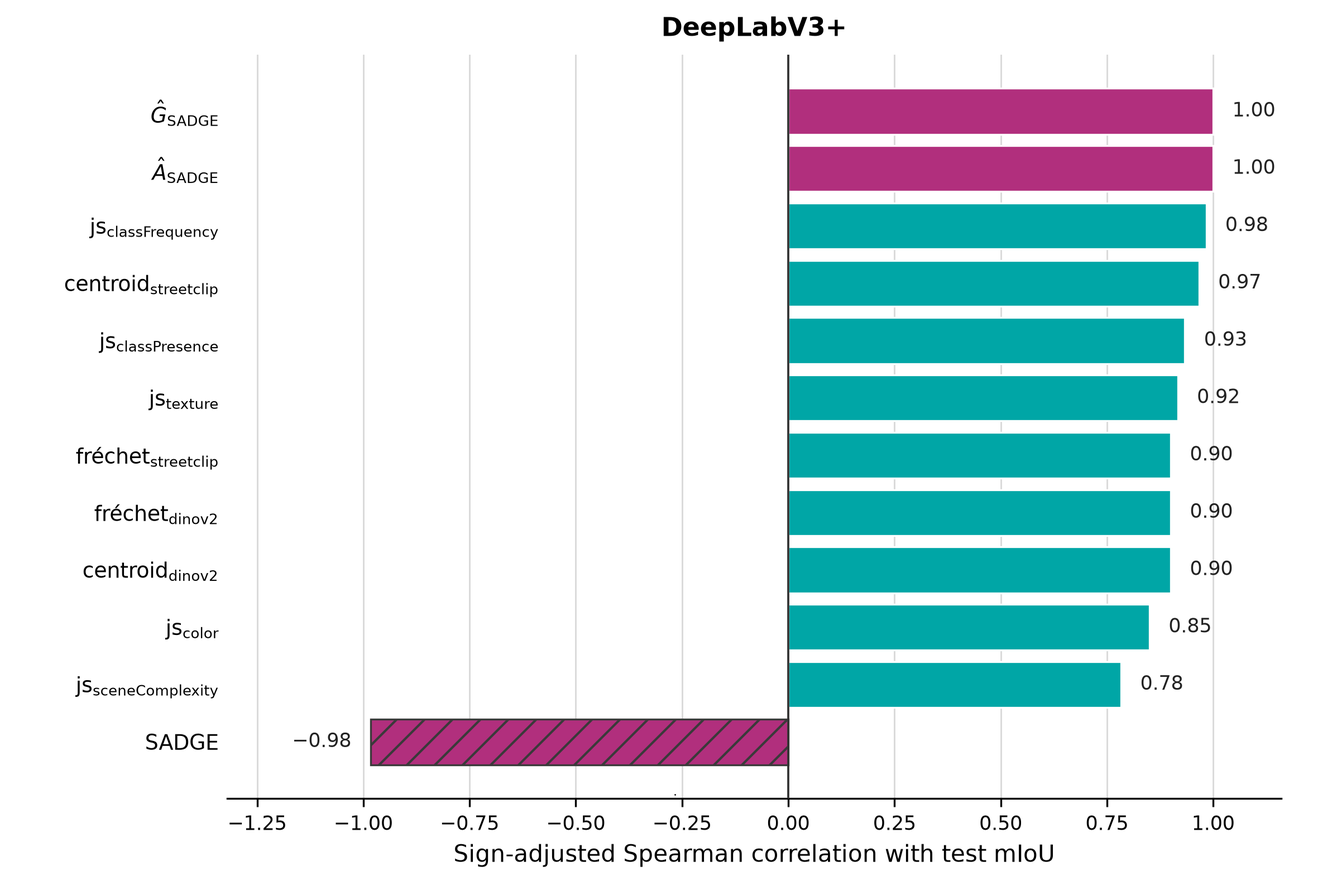
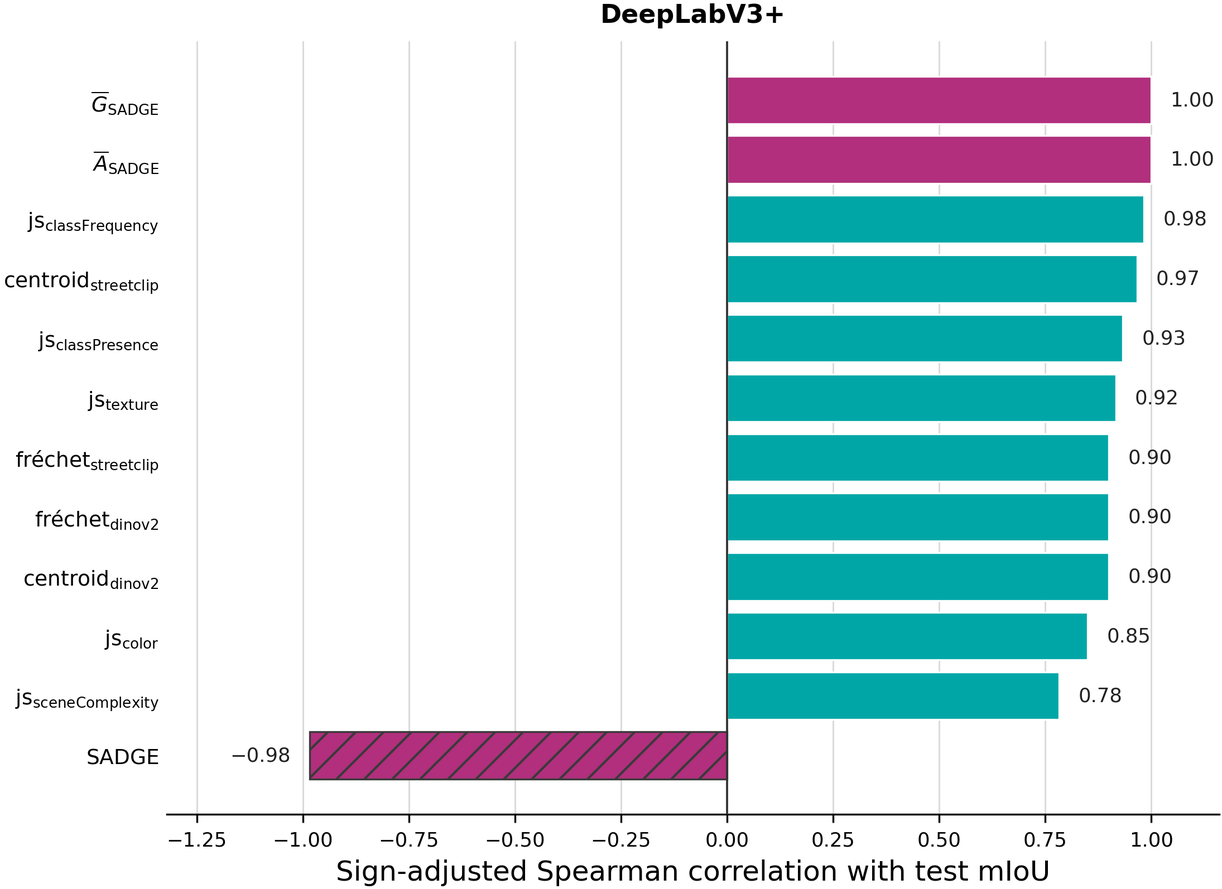
Revised Krish's Dataset section, Srishti's results section, added and revised Srishti's abstract, added title, added new plots (for 6 seeds, old ones were for 3 seeds only)

diff --git a/paper/code.tex b/paper/code.tex
@@ -20,7 +20,7 @@
     T\kern-.1667em\lower.7ex\hbox{E}\kern-.125emX}}
 \begin{document}
 
-\title{Conference Paper Title}
+\title{Shift Happens: Quantifying Domain Gap to Predict Hybrid Dataset Utility}
 
 \author{\IEEEauthorblockN{Silvie Opolka}
 \IEEEauthorblockA{\textit{Institute of Cognitive Science} \\
@@ -56,11 +56,11 @@ spandey@uni-osnabrueck.de}
 \maketitle
 
 \begin{abstract}
-The abstract goes here.
+Hybrid datasets that combine real and synthetic data can reduce data-collection costs and increase training diversity, but selecting an effective mixture usually requires training and evaluating a model for every candidate configuration. This study investigates whether distribution-shift quantification can predict the utility of hybrid datasets before downstream model training. We construct nine training configurations by mixing Cityscapes with either Synscapes or GTA-V at different synthetic fractions, and evaluate their utility for semantic segmentation on a held-out Cityscapes test set. Twelve metrics quantify covariate, label, or representation shift using image statistics, segmentation labels, or pretrained representations. We compare metric scores with test mean Intersection-over-Union for SegFormer-B2 and DeepLabV3+ models, trained with six random seeds per configuration, yielding 108 training runs. Shift quantification metrics generally exhibit the expected relationship with downstream performance, and the resulting metric rankings are broadly consistent across architectures. However, correlations across synthetic fractions are strongly confounded by the synthetic proportion itself. Matched-ratio comparisons, which hold the synthetic fraction constant, provide a stricter assessment of predictive utility and show that metrics that rank highly under ordinary correlation can fail to distinguish between synthetic sources. SADGE's appearance and geometry components, together with class-frequency shift, provide the most reliable predictions. Overall, the results support pre-training shift quantification as a promising tool for hybrid-dataset evaluation, while showing that its reliability depends on relevant shift types and appropriate metric calibration.
 \end{abstract}
 
 \begin{IEEEkeywords}
-IEEE, IEEEtran, journal, \LaTeX, paper, template.
+Shift quantification, hybrid datasets, dataset utility, dataset shift, domain gap, semantic segmentation
 \end{IEEEkeywords}
 
 \section{Introduction}
@@ -78,65 +78,29 @@ This study evaluates the proposed approach in the context of \textbf{daytime urb
 
 \subsection{Data preparation}
 \label{sec:datasetPreparation}
-%\textcolor{gray}{Bla Bla: Describe the datasets (Cityscapes, Synscapes, GTA-V)} 
-
-% Revision Notes and Clarification questions
-
-% Does the Synscapes dataset contain fine or coarse annotations? Can't remember at this moment. Need sleep lol.
-
-% Why did we specifically choose 2000 samples for all the datasets? Do we need to link the relevant literature for this?
-
-% Might need to include the LANCZOS and NEAREST Sampling justification literature
-
 
 We chose three different image datasets with pixel-level annotations: Cityscapes \cite{cityscapes}, Synscapes \cite{synscapes}, and GTA-V \cite{GTA_V}. The synthetic datasets Synscapes and GTA-V have Cityscapes-compliant annotations at pixel-level. 
 
-The \textbf{Cityscapes dataset} \cite{cityscapes} encompasses real-world street scene data from stereo video sequences, which were recorded in 50 Central European cities. It comprises 5,000 frames with high quality, pixel-level annotations and 20,000 frames with coarse annotations. To minimize the influence of annotation quality on both model training and label-based shift quantification, we only consider fine annotated data samples in this study. Cityscapes provides an official split of the fine annotated data into training (2,975 samples), validation (500 samples), and test (1,525 samples) sets. However, segmentation masks for the test set are kept private. This makes the test data unusable for our study, as our label-based shift quantification metrics require segmentation masks. Hence, we curated our own test set from the training data, comprising 975 data samples from five different cities. The city-based split was maintained to prevent data leakage.
-
+The \textbf{Cityscapes dataset} \cite{cityscapes} encompasses real-world street scene data from stereo video sequences, which were recorded in 50 Central European cities. It comprises 5,000 frames with high-quality, pixel-level annotations and 20,000 frames with coarse annotations. To minimize the influence of annotation quality on both model training and label-based shift quantification, we only consider fine-annotated data samples in this study. Cityscapes provides an official split of the fine-annotated data into training (2,975 samples), validation (500 samples), and test (1,525 samples) sets. However, segmentation masks for the test set are kept private. This makes the test data unusable for our study, as our label-based shift quantification metrics require segmentation masks. Hence, we curated our own test set from the training data, comprising 975 data samples from five different cities. The city-based split was maintained to prevent data leakage.
 
 The \textbf{Synscapes dataset} \cite{synscapes} comprises 25,000 synthetic images resembling real-world street scenes, which were generated procedurally using a physics-based rendering pipeline. It was designed to closely resemble the Cityscapes dataset, but exhibits notable limitations including class over-representation (see Appendix~\ref{sec:datasetAnalysis}) and restricted visual diversity caused by repeatedly reusing the same limited set of (in)animate objects. We selected the first 2,000 images as our training data.
- 
 
-The \textbf{GTA-V dataset} \cite{GTA_V} comprises 24,966 synthetic images, which were captured in the fictional city Los Santos of the videogame \textit{Grand Theft Auto V}. Los Santos is inspired by the American city Los Angeles in Southern California. When compared to the European setting of Cityscapes, GTA-V data exhibits pronounced visual and semantic differences (see Appendix~\ref{sec:datasetAnalysis}). Our 2,000 sample training set is drawn from the first 2,526 images, omitting 526 samples that fall outside our study's scope due to poor natural lighting or their depiction of rural rather than urban street scenes.
+The \textbf{GTA-V dataset} \cite{GTA_V} comprises 24,966 synthetic images, which were captured in the fictional city Los Santos of the videogame \textit{Grand Theft Auto V}. Los Santos is inspired by the American city Los Angeles in Southern California. When compared to the European setting of Cityscapes, GTA-V data exhibits pronounced visual and semantic differences (see Appendix~\ref{sec:datasetAnalysis}). Our 2,000-sample training set is drawn from the first 2,526 images, omitting 526 samples that fall outside our study's scope due to poor natural lighting or their depiction of rural rather than urban street scenes.
 
+Image resolutions differ across the three datasets: The Cityscapes samples are of the dimension 2048x1024; the Synscapes samples are of the dimension 1440x720, and the GTA-V samples are of the dimension 1914x1052. To eliminate the influence of resolution on both shift quantification and model training, we resized all samples uniformly to 1440x720. This resolution was chosen based on Synscapes' strict data policy, which prohibits any modification of its data. Cityscapes images and segmentation masks were downscaled directly to a resolution of 1440x720. GTA-V images and segmentation masks were first downscaled to preserve their original aspect ratio and then center-cropped to 1440x720. Image resizing used the LANCZOS technique, which preserves the most information among common sampling methods \cite{kuswantoriautomatic}. For the segmentation masks, we applied NEAREST downscaling technique, which preserves the most amount of class labels among common sampling techniques \cite{rukundo2026beyond}.
 
-For the purpose of model training and shift quantification measurement, we decided to choose different mixtures of artificial and real samples extracted from the three aforementioned datasets. In order to reach a point where we could predict model downstream performance, we need to have different training and testing divisions of the three aforementioned datasets and then, we need to train our model(s) on various hybrid data configurations, resulting from the mixture of different amounts of real and artificial samples taken from the original collection of images present in these datasets. Before diving into the intricacies of the different data mixtures, it was decided that all the different dataset combinations will have 2000 samples in total because we only have 2000 finely-annotated training samples for the Cityscapes dataset. 
-
-After this, it was decided to fully eliminate any potential sources of bias based on the varying resolutions of the samples belonging to these three different datasets. The Cityscapes samples are of the dimension \textbf{2048x1024}; the Synscapes samples are of the dimension \textbf{1440x720} and the Gta-V samples are of the dimension \textbf{1914x1052}. In addition to the varying resolutions of the image samples in the different datasets, the Synscapes dataset usage policy does not allow any sort of data modification for the purpose of usage of said data in any sort of project. In order to not introduce resolution-related biases and artifacts inside the model, all of our CityScapes image samples were downscaled to a resolution of \textbf{1440x720}, the GTA-V samples were first downscaled to the resolution of \textbf{1440x720} and then center-cropped to avoid cropping-related information loss. The Synscapes samples were kept the same.
-
-
-For changing the resolution of the image samples, the LANCZOS upscaling and downscaling technique was used because it preserves the most amount of information \cite{kuswantoriautomatic}. For resizing the annotated segmentation masks, some experimentation and literature review was done and it was found that the NEAREST upscaling and downscaling technique preserved the most amount of class labels amongst all the sampling techniques present \cite{rukundo2026beyond}. 
-
-Finally, after all the downscaling and center cropping was done to all the relevant data samples belonging to the different datasets, 10 different dataset configurations were used to train and test the models in order to quantify data distribution shifts thereafter. Out of these 10 configurations, 6 different hybrid data configurations were created based on different amounts of real and synthetic samples present in these configurations. The remaining 4 configurations contained either real or synthetic samples based on the datasets they belonged to. For the sake of clarity, the 10 different dataset configurations are listed below in bulleted points: 
+A total of nine different training datasets were created, each comprising 2,000 samples. The number of samples was kept constant to eliminate the influence of dataset size on both shift quantification and model training. Besides the three pure training datasets (\textbf{Cityscapes100}, \textbf{Synscapes100}, \textbf{GTAV100}), six additional hybrid training dataset configurations were sampled randomly from the pure datasets:
 
 \begin{itemize}
-
-\item \textbf{TRAINING DATA} encompassing 500 samples extracted from the Cityscapes dataset and 1500 samples extracted from the Synscapes dataset
-
-\item \textbf{TRAINING DATA} encompassing 1000 samples extracted from the Cityscapes dataset and 1000 samples extracted from the Synscapes dataset
-
-\item \textbf{TRAINING DATA} encompassing 1500 samples extracted from the Cityscapes dataset and 500 samples extracted from the Synscapes dataset 
-
-\item \textbf{TRAINING DATA} encompassing 2000 samples extracted from the Cityscapes dataset
-
-\item \textbf{TRAINING DATA} encompassing 2000 samples extracted from the Synscapes dataset
-
-\item \textbf{TRAINING DATA} encompassing 2000 samples extracted from the GTA-V dataset
-
-\item \textbf{TRAINING DATA} encompassing 500 samples extracted from the Cityscapes dataset and 1500 samples extracted from the GTA-V dataset
-
-\item \textbf{TRAINING DATA} encompassing 1000 samples extracted from the Citycapes dataset and 1000 samples extracted from the GTA-V dataset
-
-\item \textbf{TRAINING DATA} encompassing 1500 samples extracted from the Cityscapes dataset and 500 samples extracted from the GTA-V dataset
-
-\item \textbf{TESTING DATA} encompassing 2000 samples extracted from the Cityscaps dataset
-
+\item \textbf{Synscapes75}, encompassing 500 samples extracted from the Cityscapes dataset and 1500 samples extracted from the Synscapes dataset
+\item \textbf{Synscapes50}, encompassing 1000 samples extracted from the Cityscapes dataset and 1000 samples extracted from the Synscapes dataset
+\item \textbf{Synscapes25}, encompassing 1500 samples extracted from the Cityscapes dataset and 500 samples extracted from the Synscapes dataset 
+\item \textbf{GTAV75}, encompassing 500 samples extracted from the Cityscapes dataset and 1500 samples extracted from the GTA-V dataset
+\item \textbf{GTAV50}, encompassing 1000 samples extracted from the Cityscapes dataset and 1000 samples extracted from the GTA-V dataset
+\item \textbf{GTAV25}, encompassing 1500 samples extracted from the Cityscapes dataset and 500 samples extracted from the GTA-V dataset
 \end{itemize}
 
-Finally, since all of the 34 image classes belonging to the finely-annotated pixel-level segmentation masks weren't always relevant for segmenting all the objects belonging to the different frames, it was decided to move forward with 19 of the most relevant image classes for segmenting objects in the frames.
-
-
-%\textcolor{gray}{Bla Bla: Describe the preparation (number of samples selected, how samples were selected, resizing to uniform resolution, construction of the 9 hybrid train datasets + val + test datasets and the reasoning behind it, certain class indices are ignored - 19 instead of 34 classes)} 
+Finally, similar to \cite{cityscapes}, only 19 of the 34 different Cityscapes classes were considered. 
 
 \subsection{Shift quantification}
 A distribution shift occurs when two data distributions differ. In machine learning (ML), this typically refers to the shift between the distribution a model is trained on (training distribution) and the distribution it will be applied to (inference distribution, approximated by the test dataset). Hybrid datasets are often motivated by the goal of reducing this distribution shift: Adding synthetic data to real data can enrich the training distribution in a controlled manner, improving coverage and diversity, and supporting generalization to shifted inference conditions. Conversely, adding real data to synthetic data can help anchor the model in real-world statistics, reducing the reality gap and mitigating reliance on unrealistic or harmful artifacts. 
@@ -146,7 +110,7 @@ Beyond this general notion, a distribution shift can be decomposed into several 
 \label{eq:bayes_shift}
 P(Y \mid F(x)) = \frac{P(F(x) \mid Y) \cdot P(Y)}{P(F(x))}.
 \end{equation}
-The Bayes decomposition exposes the distributions that may differ between datasets. Based on the affected distribution, we differentiate between five shift types, of which this study focuses on three: covariate shift, label shift, and representation shift.\footnote{Additional shift types include class-conditional representation shift, which affects the input representation for a specific class $P(F(x)|Y)$, and concept shift, which affects the labeling function $P(Y|F(x))$ or $P(Y|X)$. Class-conditional representation shift is excluded because this study quantifies the shift at the dataset level rather than per class. Concept shift is excluded because all datasets share the same semantic label definitions.} Inspired by \cite{dale2024}, we chose our shift quantification metrics considering three criteria: Each metric must be easy to calculate, provide information about the source of the gap, and react to changes in data distribution as hybrid training configurations are adjusted. Their fourth criteria, correlation with downstream model performance, will be addressed in this study. Based on the information used for quantification, we group the selected shift quantification metrics into three categories, each capturing a different aspect of the shift:
+The Bayes decomposition exposes the distributions that may differ between datasets. Based on the affected distribution, we differentiate between five shift types, of which this study focuses on three: covariate shift, label shift, and representation shift.\footnote{Additional shift types include class-conditional representation shift, which affects the input representation for a specific class $P(F(x)|Y)$, and concept shift, which affects the labeling function $P(Y|F(x))$ or $P(Y|X)$. Class-conditional representation shift is excluded because this study quantifies the shift at the dataset level rather than per class. Concept shift is excluded because all datasets share the same semantic label definitions.} Inspired by \cite{dale2024}, we chose our shift quantification metrics considering two criteria: Each metric must be easy to calculate and provide information about the source of the gap. The remaining two criteria, correlation with downstream model performance, and reaction to changes in data distribution as hybrid training configurations are adjusted, will be addressed in this study. Based on the information used for quantification, we group the selected shift quantification metrics into three categories, each capturing a different aspect of the shift:
 
 \textbf{Image-based metrics} quantify the covariate shift, that is, differences in the input distribution $P(X)$ that arise from changes in visual properties such as color and texture. These metrics operate on the raw images. This study considers two metrics that focus on a shift in color ($\text{js}_{\text{color}}$) and texture ($\text{js}_{\text{texture}}$) respectively. Covariate shift was quantified using Jensen-Shannon distance \eqref{eq:js} between the normalized mean histograms $p_{\text{train}}$, $p_{\text{test}}$. Per-image color histograms were computed in HSV space using density-based histogram counts, with 32 hue bins (0-180), 16 saturation bins (0-256), and 16 brightness bins (0-256). Per-image texture histograms were computed using multiscale Local Binary Patterns (LBP) at two scales ($P=8$, $R=1$) and ($P=16$, $R=2$).
 
@@ -240,157 +204,84 @@ Our matched-ratio comparison avoids the effect entirely by holding the synthetic
 
 \textbf{Multiple comparisons.} Correlating twelve metrics against the same downstream scores raises the chance that at least one appears significant purely by accident. Correlation $p$-values are therefore reported alongside values adjusted by the Holm step-down procedure \cite{holm1979}, applied within each family of twelve metrics, that is separately for each architecture.
 
-% \section{Results}
-% \textcolor{gray}{PARAGRAPH (1)}
-
-% \begin{itemize}
-%     \item \textcolor{gray}{Synscapes and GTA-V differ in separate ways from Cityscapes (see Appendix~\ref{sec:datasetAnalysis}).}
-%     \item \textcolor{gray}{Model performance is visibly affected by this shift (see Figure~\ref{fig:shiftModelPerformance}). The lower the ratio of in-domain/real/Cityscapes data, the lower downstream model performance.}
-%     \item \textcolor{gray}{Models trained with GTA-V as a synthetic data source perform generally worse than models trained on Synscapes.}
-%     \item \textcolor{gray}{Variance between seeds rises at higher synthetic fractions for both models.}
-%     \item \textcolor{gray}{Segformer architecture generally performs better than DeepLabV3+.}
-% \end{itemize}
-
-% \begin{figure}[htbp]
-%     \vspace{-0.5em}
-%     \centering
-%     \includegraphics[width=\columnwidth, keepaspectratio]{images/shiftModelPerformance.png}
-%     \caption{Points show means across three training seeds. Shaded regions indicate 95\% confidence intervals computed using the unbiased sample variance.}
-%     \label{fig:shiftModelPerformance}
-% \end{figure}
-
-% \textcolor{gray}{PARAGRAPH (2) - reference Figures \ref{fig:correlation1} and \ref{fig:correlation2}}
-
-% \begin{itemize}
-%     \item \textcolor{gray}{shift quantification metrics produce shift scores that differ in scale}
-%     \item \textcolor{gray}{observe negative correlation for all distance-based metrics; observe positive correlation for SADGE's two similarity-based individual components; observe negative correlation for the combined SADGE score despite being similarity-based}
-%     \item \textcolor{gray}{correlation (and its p-value / statistical significance) is generally higher for DeepLabV3+ than Segformer}
-%     \item \textcolor{gray}{statistical significance: all are $p<0.05$}
-%     \item \textcolor{gray}{for a single training seed, ranking according to correlation stays similar between the two model architectures, just $\text{js}_{\text{sceneComplexity}}$ and $\text{js}_{\text{color}}$ are swapped}
-% \end{itemize}
-
-% \begin{figure*}[!htbp]
-%     \centering
-%     \includegraphics[width=0.48\textwidth]{images/seed42_color_js_miou.png}
-%     \includegraphics[width=0.48\textwidth]{images/seed42_texture_js_miou.png}
-%     \includegraphics[width=0.48\textwidth]{images/seed42_class_frequency_js_miou.png}
-%     \includegraphics[width=0.48\textwidth]{images/seed42_class_presence_js_miou.png}
-%     \includegraphics[width=0.48\textwidth]{images/seed42_scene_complexity_js_miou.png}
-%     \includegraphics[width=0.48\textwidth]{images/seed42_sadge_miou.png}
-%     \includegraphics[width=0.48\textwidth]{images/seed42_sadge_appearance_miou.png}
-%     \includegraphics[width=0.48\textwidth]{images/seed42_sadge_geometry_miou.png}
-    
-%     \caption{caption}
-%     \label{fig:correlation1}
-% \end{figure*}
-
-% \begin{figure*}[!htbp]
-%     \centering
-%     \includegraphics[width=0.48\textwidth]{images/seed42_centroid_dinov2_miou.png}
-%     \includegraphics[width=0.48\textwidth]{images/seed42_centroid_streetclip_miou.png}
-%     \includegraphics[width=0.48\textwidth]{images/seed42_frechet_dinov2_miou.png}
-%     \includegraphics[width=0.48\textwidth]{images/seed42_frechet_streetclip_miou.png}
-    
-%     \caption{continued from Figure X}
-%     \label{fig:correlation2}
-% \end{figure*}
-
-% \textcolor{gray}{PARAGRAPH (3) - reference Figure \ref{fig:ranking}}
-
-% \begin{itemize}
-%     \item \textcolor{gray}{the overall ranking stays similar when considering the mean downstream performance (across seeds), now is even identical between the two model architectures}
-%     \item \textcolor{gray}{SADGE remains the best metric in our study as well; the individual geometry and appearance SADGE components alone already work well by themselves}
-%     \item \textcolor{gray}{From our metrics, $\text{js}_{\text{classFrequency}}$ shows highest predictive power}
-%     \item \textcolor{gray}{out of our representation-based metrics, $\text{centroid}_{\text{streetCLIP}}$ works best}
-%     \item \textcolor{gray}{$\text{js}_{\text{color}}$ and $\text{js}_{\text{sceneComplexity}}$ show lowest predictive power}
-% \end{itemize}
-
-% \begin{figure}[!htbp]
-%     \centering
-%     \includegraphics[width=\linewidth]{images/rankingSegformer.png}
-%     \vspace{1.0em}
-%     \includegraphics[width=\linewidth]{images/rankingDeeplabv3plus.png}
-%     \caption{Caption}
-%     \label{fig:ranking}
-% \end{figure}
-
-% \textcolor{gray}{PARAGRAPH (4) - reference Figure~\ref{fig:matchedRatio}}
-
-% \begin{itemize}
-%     \item \textcolor{gray}{matched-ratio comparisons (see Figure~\ref{fig:matchedRatio}) reveal a key difference between model architectures: tie for SegFormer architecture, across metrics, for moderate synthetic ratios. For the DeepLabV+, all metrics are able to draw a clear differentiation. } 
-%     \item \textcolor{gray}{$\text{SADGE}$, $\text{js}_{\text{classPresence}}$ and $\text{js}_{\text{sceneComplexity}}$ are unable to rank hybrid dataset utility meaningfully when keeping the synthetic fraction fixed}
-% \end{itemize}
-
-% \begin{figure}[!htbp]
-%     \centering
-%     \includegraphics[width=\linewidth]{images/matchedRatioSegformer.png}
-%     \vspace{1.0em}
-%     \includegraphics[width=\linewidth]{images/matchedRatioDeepLab.png}
-%     \caption{Caption}
-%     \label{fig:matchedRatio}
-% \end{figure}
-
 \section{Results}
-Overall, the results are consistent across the evaluated settings: hybrid datasets with a larger synthetic share tend to perform worse, the strongest degradation appears in the most synthetic-heavy mixtures, and the gap is larger for GTA-V than for Synscapes. The same pattern is reflected in the shift metrics, where the strongest predictors recover the expected negative relationship between dataset shift and downstream performance, while the matched-ratio comparison provides the clearest evidence for ranking candidate sources under a fixed data budget.
 
 \subsection{Downstream performance by synthetic fraction}
-Figure~\ref{fig:shiftModelPerformance} summarizes the mean test mIoU across the nine hybrid training settings. The pattern is consistent across architectures: increasing the synthetic fraction reduces performance, and the decline is steeper for GTA-V than for Synscapes. SegFormer remains the better model on average, but the gap between the two synthetic sources is relatively small in the mid-range ratios and becomes clearer only at higher synthetic fractions.
+Synscapes and GTA-V differ in separate ways from Cityscapes (see Appendix~\ref{sec:datasetAnalysis}). Model performance is visibly affected by this shift, as increasing the synthetic fraction consistently reduces the mean test mIoU (see Figure~\ref{fig:shiftModelPerformance}). Within the same model architecture, training with GTA-V as a synthetic data source results in consistently lower performance compared to using Synscapes. The performance gap between the two synthetic sources becomes more prominent as their fraction increases. The SegFormer architecture performs superior to DeepLabV3+.
+
+Those findings show that the synthetic proportion is a strong driver of downstream performance, while the source of the synthetic data controls the severity of the drop. The trend is consistent across both architectures, indicating that the ordering of the dataset mixtures is model-independent.
 
 \begin{figure}[!htbp]
     \centering
-    \includegraphics[width=\columnwidth, trim=0 40 0 10, clip]{../results/figures/figure4/figure4_miou_ci95.png}
-    \caption{Mean test mIoU as a function of the synthetic fraction in the training mixture. Points show the mean across six training seeds and shaded regions show 95\% confidence intervals. Results are reported separately for Synscapes-containing and GTA-containing mixtures, for both model architectures.}
+    \includegraphics[width=\columnwidth, keepaspectratio]{images/shiftModelPerformance.png}
+    \caption{Mean test mIoU as a function of the synthetic fraction in the training mixture. Points show the mean across six training seeds and shaded regions show 95\% confidence intervals.}
     \label{fig:shiftModelPerformance}
 \end{figure}
 
-Figure~\ref{fig:shiftModelPerformance} shows that the synthetic proportion is a strong driver of downstream performance, while the source of the synthetic data controls the severity of the drop. The trend is consistent across both architectures, indicating that the ordering of the dataset mixtures is robust before any individual shift metric is considered.
-
-\subsection{Shift-performance relationships}
-The metric plots indicate that the relationship between shift score and test mIoU is mostly monotonic, but not equally strong across all metrics. Distance-based metrics tend to move in the expected direction: larger shift corresponds to lower mIoU. The strongest negative correlations are obtained by the class-frequency and representation-based distances, while the SADGE similarity scores move in the opposite direction as expected.
-
-\begin{figure}[!htbp]
-    \centering
-    \includegraphics[width=\columnwidth, trim=0 40 0 10, clip]{../results/figures/figure1/figure1_seed42_class_frequency_js_miou.png}
-    \caption{Example scatter plot of the class-frequency Jensen-Shannon distance against test mIoU. Marker shape denotes the model architecture and color denotes the synthetic source. The reported Spearman correlation shows the expected negative relationship between shift and downstream performance.}
-    \label{fig:shiftmetric_example}
-\end{figure}
-
-Figure~\ref{fig:shiftmetric_example} illustrates the central trend in the metric analysis: as the synthetic ratio increases, the class-frequency shift rises and the downstream mIoU decreases. The same qualitative pattern holds across the other distance-based metrics, although the strength of the relation varies between metrics and between architectures.
+\subsection{Correlation analysis}
+Since the shift quantification metrics produce shift scores on different scales, we assess their relationships using Spearman's correlation analysis (Figures~\ref{fig:correlation1} and~\ref{fig:correlation2}). Almost all metrics yield the expected correlation direction, though the strength of these correlations varies across metrics and architectures. All distance-based metrics correlate negatively, while both similarity-based SADGE components correlate positively, as expected. The fused SADGE score is the sole exception: Despite being similarity-based, it exhibits a negative correlation. Correlations are generally stronger for DeepLabV3+ than for SegFormer. All reported results are statistically significant ($p<0.05$).
 
 \subsection{Metric ranking}
-Figure~\ref{fig:ranking} summarizes the sign-adjusted correlations across all twelve metrics. The ordering is stable across architectures, with SADGE and the class-frequency distance among the strongest predictors. The appearance and geometry components of SADGE remain competitive when considered separately, whereas the weakest metrics are mainly those based on color and scene complexity.
+We rank the twelve metrics according to their sign-adjusted correlations with mean test mIoU (averaged across six training seeds; see Figure~\ref{fig:ranking}). The ranking is stable across model architectures, with $\bar{A}_{\text{SADGE}}$, $\bar{G}_{\text{SADGE}}$, and $\text{js}_{\text{classFrequency}}$ emerging as the strongest predictors. Among the representation-based metrics, $\text{centroid}_{\text{streetCLIP}}$ performs best. $\text{js}_{\text{color}}$ and $\text{js}_{\text{sceneComplexity}}$ rank lowest in predictive power.
 
 \begin{figure}[!htbp]
     \centering
-    \includegraphics[width=\columnwidth, trim=0 40 0 10, clip]{../results/figures/figure2/figure2_combined_miou_standard.png}
-    \caption{Sign-adjusted Spearman correlation of each metric with test mIoU. Distances are scored positively when they correlate negatively with mIoU; similarities are scored positively when they correlate positively with mIoU. Higher values indicate stronger predictive power.}
+    \includegraphics[width=\linewidth]{images/rankingSegformer.png}
+    \par\vspace{1.0em}\par
+    \includegraphics[width=\linewidth]{images/rankingDeeplabv3plus.png}
+    \caption{Metric ranking according to sign-adjusted Spearman's correlation with mean test mIoU. Higher values indicate stronger predictive power.}
     \label{fig:ranking}
 \end{figure}
 
-Figure~\ref{fig:ranking} makes the difference across metric families explicit: some shift types are more informative for predicting hybrid-dataset utility than others. The strongest predictors are not simply the ones with the largest raw shift values, but the ones that best reflect the mismatch that harms semantic segmentation performance.
-
 \subsection{Matched-ratio comparison}
-The matched-ratio comparison removes the effect of the synthetic proportion itself. It therefore provides a stricter test of a metric's usefulness. When the synthetic fraction is fixed, the difference between the two synthetic sources becomes clearer: DeepLabV3+ separates the sources more reliably at the same ratio, while SegFormer shows smaller and often non-significant differences at intermediate ratios.
+The matched-ratio comparison (Figure~\ref{fig:matchedRatio}) shows that once the effect of the synthetic proportion itself is removed,   $\text{js}_\text{classPresence}$ and $\text{js}_{\text{sceneComplexity}}$ fail to rank hybrid dataset utility meaningfully. Comparisons could not be conducted at low synthetic fractions for either architecture, nor at moderate synthetic fractions for SegFormer.
 
 \begin{figure}[!htbp]
     \centering
-    \includegraphics[width=\columnwidth, trim=0 40 0 10, clip]{../results/figures/figure3/figure3_combined_miou_standard.png}
+    \includegraphics[width=\linewidth]{images/matchedRatioSegformer.jpg}
+    \par\vspace{0.3em}\par
+    \includegraphics[width=\linewidth]{images/matchedRatioDeepLab.jpg}
     \caption{Matched-ratio comparison for the two synthetic sources at fixed synthetic fractions. Green cells indicate that the metric correctly prefers the better-performing source, red cells indicate the opposite, and gray cells indicate a tie that was not scored.}
     \label{fig:matchedRatio}
 \end{figure}
 
-Figure~\ref{fig:matchedRatio} is the most relevant comparison for dataset selection, because the question is not whether a metric tracks the overall synthetic share, but whether it can rank two candidate sources fairly under a fixed data budget. Taken together, these results show that pre-training shift quantification can predict the utility of hybrid datasets, but the reliability depends on the metric and on the evaluation protocol.
+
+\begin{figure*}[!htbp]
+    \centering
+    \includegraphics[width=0.48\textwidth]{images/seed42_color_js_miou.jpg}
+    \includegraphics[width=0.48\textwidth]{images/seed42_texture_js_miou.jpg}
+    \includegraphics[width=0.48\textwidth]{images/seed42_class_frequency_js_miou.jpg}
+    \includegraphics[width=0.48\textwidth]{images/seed42_class_presence_js_miou.jpg}
+    \includegraphics[width=0.48\textwidth]{images/seed42_scene_complexity_js_miou.jpg}
+    \includegraphics[width=0.48\textwidth]{images/seed42_sadge_miou.jpg}
+    \includegraphics[width=0.48\textwidth]{images/seed42_sadge_appearance_miou.jpg}
+    \includegraphics[width=0.48\textwidth]{images/seed42_sadge_geometry_miou.jpg}
+    
+    \caption{Spearman's correlation between quantified shift and downstream model performance. Marker shape denotes the model architecture (SegFormer: square, DeepLabV3+: circle). Color denotes the synthetic source (100\% real: black; Synscapes-containing: blue; GTA-V-containing: orange).}
+    \label{fig:correlation1}
+\end{figure*}
+
+\begin{figure*}[!htbp]
+    \centering
+    \includegraphics[width=0.48\textwidth]{images/seed42_centroid_dinov2_miou.jpg}
+    \includegraphics[width=0.48\textwidth]{images/seed42_centroid_streetclip_miou.jpg}
+    \includegraphics[width=0.48\textwidth]{images/seed42_frechet_dinov2_miou.jpg}
+    \includegraphics[width=0.48\textwidth]{images/seed42_frechet_streetclip_miou.jpg}
+    
+    \caption{Spearman's correlation between quantified shift and downstream model performance; continued from Figure~\ref{fig:correlation1}.}
+    \label{fig:correlation2}
+\end{figure*}
 
 \section{Discussion}
 In this study, we applied twelve shift quantification metrics to nine hybrid dataset configurations for daytime urban street scene segmentation, and measured correlation with downstream performance across two model architectures with six random seeds each. We can draw four main conclusions from our findings:
 
 First, both shift quantification and downstream model performance confirm a measurable domain gap between synthetic and real data. However, not all shift quantification metrics succeed in ranking hybrid dataset utility meaningfully. Both $\text{js}_{\text{classPresence}}$ and $\text{js}_{\text{sceneComplexity}}$ quantify a shift type that is more prominent in Synscapes than GTA-V (Appendix~\ref{sec:datasetAnalysis}), while downstream performance is affected more by GTA-V than Synscapes (Figure~\ref{fig:shiftModelPerformance}). This shows that predictive power does not simply follow from detecting whichever shift is most prominent, but from detecting the shift types that actually impact model performance. Combining multiple metric scores in a unified shift score, similar to SADGE, could help make shift quantification independent of the dataset and its dominant shift types \cite{bartkowiak2026, duminil2025}.
 
-Second, our results reveal the problematic nature of cross-ratio, correlation-based metric evaluation, which (as described in Section~\ref{sec:analysis}) largely reflects the metric's ability to track the synthetic proportion rather than its actual predictive power. This becomes most apparent for $\text{js}_{\text{classPresence}}$, which ranks highly under Spearman's correlation (Figure~\ref{fig:sumClassPresence}) but fails in matched-ratio comparisons (Figure~\ref{fig:matchedRatio}). Hence, correlation alone is insufficient for assessing shift metrics and can systematically misrepresent their true predictive value.
+Second, our results reveal the problematic nature of cross-ratio, correlation-based metric evaluation, which (as described in Section~\ref{sec:analysis}) largely reflects the metric's ability to track the synthetic proportion rather than its actual predictive power. This becomes most apparent for $\text{js}_{\text{classPresence}}$, which ranks highly under Spearman's correlation (Figure~\ref{fig:sumClassPresence}) but fails in matched-ratio comparisons (Figure~\ref{fig:matchedRatio}). Hence, correlation alone is insufficient for assessing shift metrics and can systematically misrepresent their true predictive value. We presented matched-ratio comparison as a promising alternative, which removes the effect of the synthetic proportion itself. It therefore provides a stricter test of a metric's usefulness.
 
 Third, we confirm $\text{SADGE}$-based shift quantification as the strongest predictor among the evaluated metrics, though its fused score is miscalibrated on our data and its sign flips as a result. With $a=0$, the $\text{SADGE}$ score reduces to $\hat{A} \cdot(b + c \cdot \hat{G})$. In all of our hybrid datasets, the appearance score $\bar{A}$ is below $\text{SADGE}$'s calibrated mean $\mu_A$, and the geometry score $\bar{G}$ reports far fewer MASt3R inliers than assumed by \cite{bartkowiak2026} for calibration. The latter is a known failure mode, which was already raised in \cite{bartkowiak2026}. This forces both $\hat{A}$ and $\hat{G}$ into the negative region, such that the sign flips.
 
-Fourth, our results suggest that the predictive power of shift quantification metrics is mostly independent of the model architecture. SegFormer and DeepLabV3+ share a similar metric ranking and global rank correlations of comparable magnitude. The one place where the two architectures diverge is not in metric quality but in how much signal is available for the metrics to be scored against. Unlike DeepLabV3+, SegFormer's performance is statistically indistinguishable at moderate synthetic fractions. We attribute this to SegFormer's higher robustness to the synthetic source, which is reflected in the narrow performance gap between synthetic datasets, and its higher randomness across training seeds (Figure~\ref{fig:shiftModelPerformance}).
+Fourth, our results suggest that the predictive power of shift quantification metrics is mostly independent of the model architecture. SegFormer and DeepLabV3+ share a similar metric ranking and global rank correlations of comparable magnitude. The one place where the two architectures diverge is not in metric quality but in how much signal is available for the metrics to be scored against. Unlike DeepLabV3+, SegFormer's performance is statistically indistinguishable at moderate synthetic fractions. We attribute this to SegFormer's higher robustness to the synthetic source, which is reflected in the narrow performance gap between synthetic datasets (Figure~\ref{fig:shiftModelPerformance}).
 
 Overall, pre-training shift quantification is a promising direction to predict the utility of a hybrid dataset. However, identifying the relevant shift types, calibrating metrics appropriately, and evaluating them reliably remain open challenges that future research must address.
 
